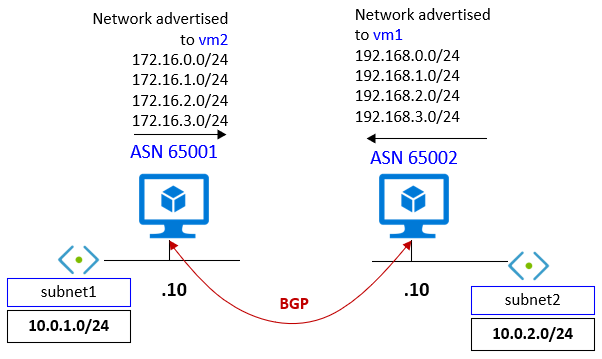
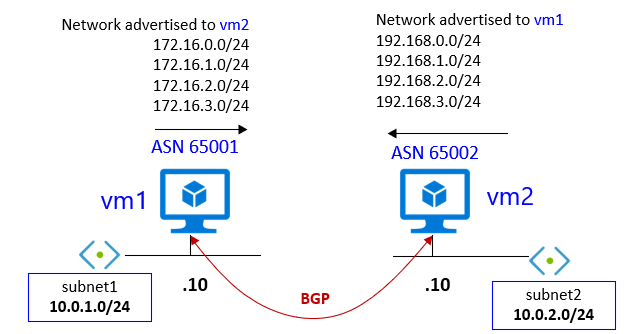
Azure examples

Changed region(s): [[0.0, 0.0299, 0.5681, 0.9581], [0.5681, 0.0299, 1.0, 0.988], [0.5681, 0.8982, 0.598, 0.9281]]

diff --git a/windows-bgp/README.md b/windows-bgp/README.md
@@ -81,7 +81,7 @@ Add-BgpCustomRoute -network 192.168.1.0/24
 Add-BgpCustomRoute -network 192.168.2.0/24
 Add-BgpCustomRoute -network 192.168.3.0/24
 ```
-### <a name="BGP-check"></a>2. check BGP between vm1 and vm2
+### <a name="BGP-check"></a>2. Check BGP between vm1 and vm2
 Check out the BGP peer:
 ```powershell
 Get-BgpPeer
@@ -248,13 +248,16 @@ vm1-PS C:\> Remove-BgpCustomRoute -network 172.16.3.0/24
 >
 
 
-### <a name="BGP-remove-network"></a>4. Add  BGP polices
+### <a name="BGP-remove-network"></a>4. Add BGP polices
 In vm1
 ```powershell
 vm1-PS C:\> Add-BgpRoutingPolicy -Name RoutePolicy1 -MatchPrefix 172.16.1.0/24 -PolicyType ModifyAttribute -AddCommunity 100:101
  
 vm1-PS C:\> Add-BgpRoutingPolicyForPeer -PeerName vm2 -PolicyName RoutePolicy1 -Direction Egress
 ```
+
+[![3]][3]
+
 In vm2:
 ```powershell
 vm2-PS C:\> Get-BgpRouteInformation -Network 172.16.1.0/24 | fl
@@ -321,7 +324,8 @@ New-NetRoute -DestinationPrefix 172.16.1.0/24 -InterfaceIndex 5 -NextHop 10.0.1.
 <!--Image References-->
 
 [1]: ./media/network-diagram.png "network diagram"
-[2]: ./media/bgp-peer.png "network diagram"
+[2]: ./media/bgp-peer.png "bgp peer"
+[3]: ./media/bgp-community.png "routing policy to send BGP community"
 
 <!--Link References-->
 
